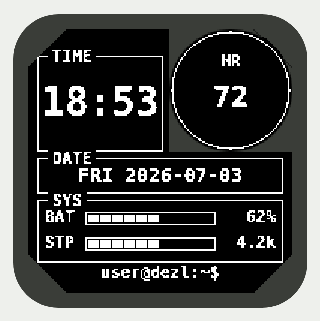
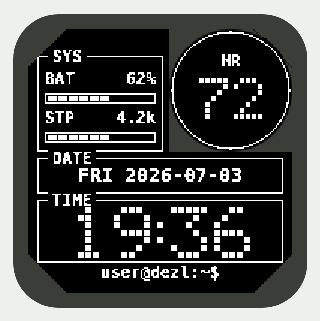
Render time and HR as custom 5x7 dot-matrix digits
Replace the built-in number fonts with hand-drawn dot-matrix glyphs
(pixel blocks, no font resources) and promote TIME to a full-width
hero panel:
- SYS meters move to the small panel beside the subscreen, stacked
  label+value over a full-width 10-segment bar
- TIME panel spans the full width below DATE with ~24x34 px digits;
  dot pitch auto-shrinks until hh:mm fits
- HR in the subscreen uses the same glyphs at 4 px pitch (3 px when
  a three-digit reading wouldn't fit the circle)
- ':' and '-' glyphs included for the clock colon and no-reading state

Claude-Session: https://claude.ai/code/session_01Et1J8ZGZoTnzptp7VDcAz9

diff --git a/README.md b/README.md
@@ -4,17 +4,17 @@ A clean, minimal TUI-inspired watchface for the **Garmin Instinct 2 dēzl Editio
 
 ![tui-face preview](docs/preview.png)
 
-Boxed panels with labels knocked into the frame, terminal style. White-on-black, drawn entirely with 1-bit primitives — every pixel is pure black or white, which is exactly what the Instinct's 176×176 MIP panel displays.
+Boxed panels with labels knocked into the frame, terminal style. White-on-black, drawn entirely with 1-bit primitives — every pixel is pure black or white, which is exactly what the Instinct's 176×176 MIP panel displays. Time and heart rate are rendered in a custom **5×7 dot-matrix digit face** built from pixel blocks (no font resources), so the numerals stay crisp and terminal-flavored at any size.
 
 ## Layout
 
-| Region       | Content                                                              |
-| ------------ | -------------------------------------------------------------------- |
-| `TIME` panel | hh:mm in the largest number font that fits; AM/PM chip in 12-h mode  |
-| subscreen ◯  | `HR` label + current heart rate (`--` when no reading)               |
-| `DATE` panel | `DOW YYYY-MM-DD`                                                      |
-| `SYS` panel  | `BAT` and `STP` rows: label, 10-segment meter, value                  |
-| footer       | `user@dezl:~$` prompt                                                 |
+| Region       | Content                                                                    |
+| ------------ | --------------------------------------------------------------------------- |
+| `SYS` panel  | `BAT` and `STP` blocks beside the subscreen: label + value, 10-segment meter |
+| subscreen ◯  | `HR` label + current heart rate in matrix digits (`--` when no reading)     |
+| `DATE` panel | `DOW YYYY-MM-DD`                                                             |
+| `TIME` panel | full-width hero: hh:mm in 5×7 dot-matrix digits; AM/PM chip in 12-h mode    |
+| footer       | `user@dezl:~$` prompt                                                        |
 
 The circular subscreen geometry is read from `WatchUi.getSubscreen()` at runtime (with a hardcoded Instinct 2 fallback), so heart rate always lands inside the physical cutout. The face does one full redraw per minute — no high-power partial updates, easy on the battery.
 
